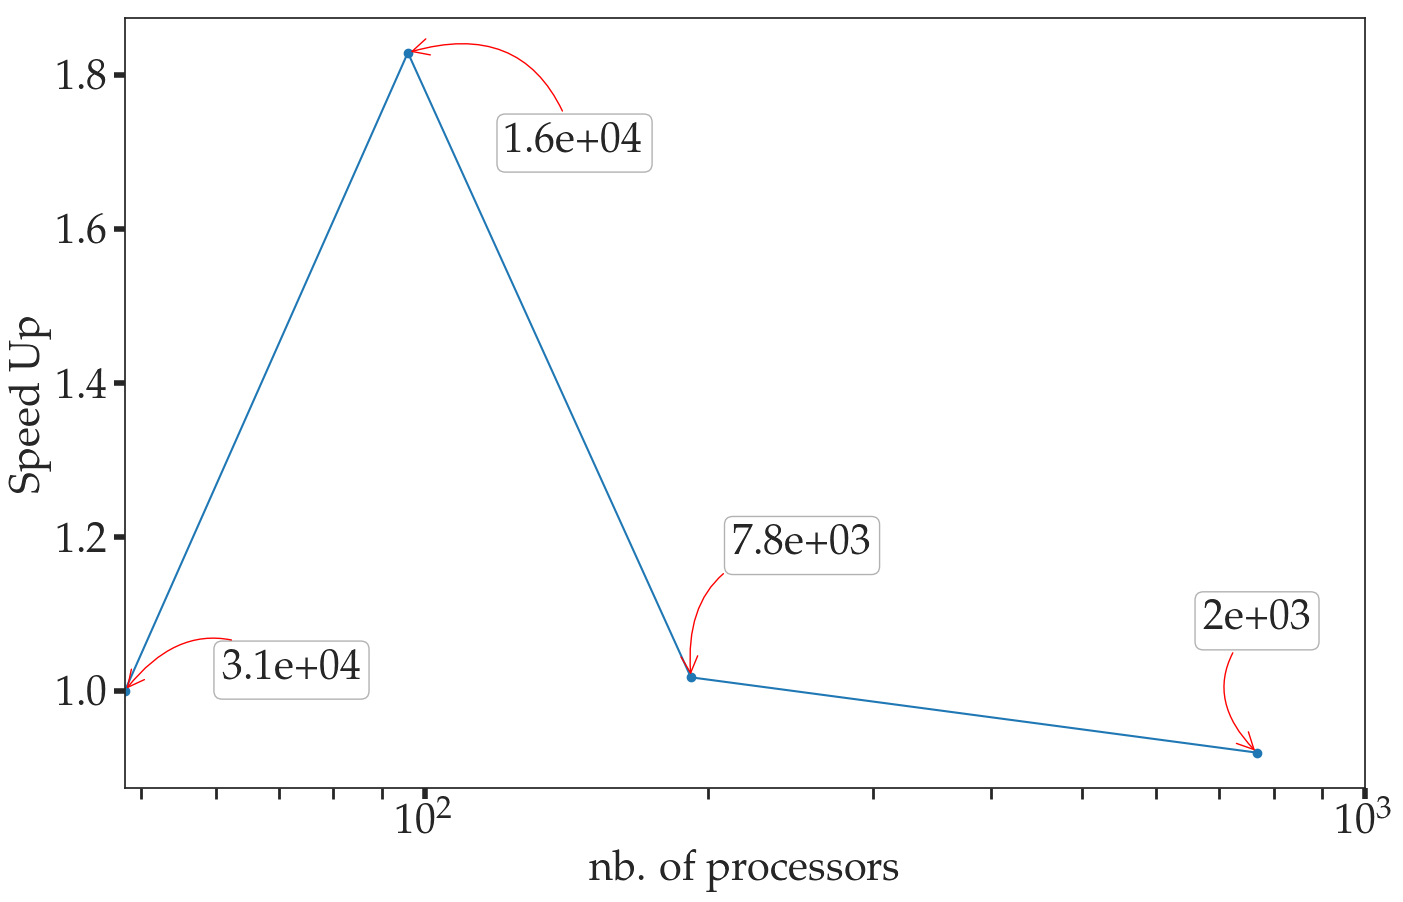
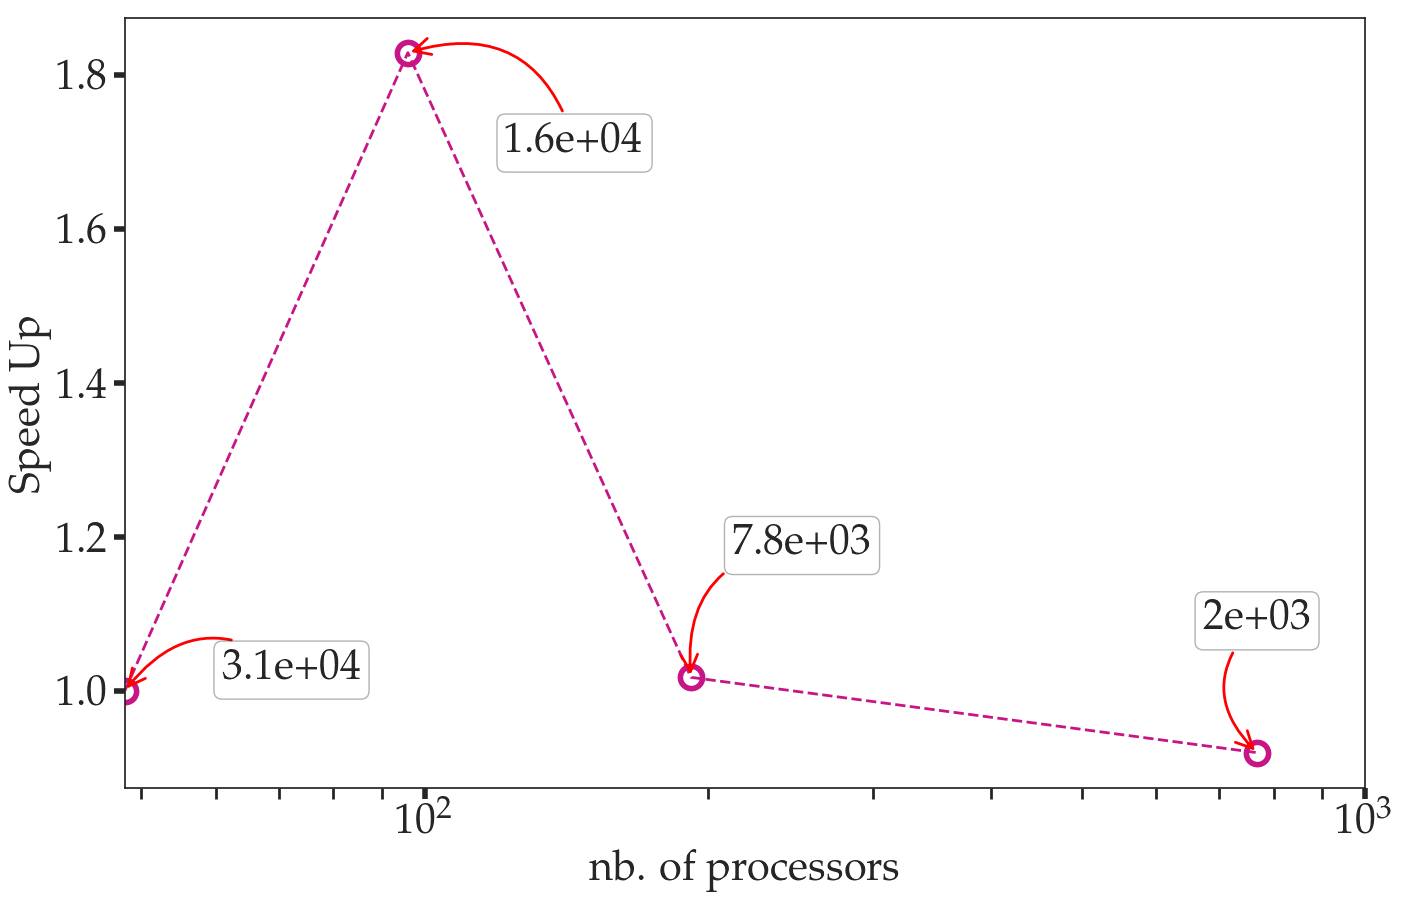
better plot

diff --git a/userScalability/occigen.py b/userScalability/occigen.py
@@ -26,6 +26,13 @@ def read_cases():
     prefix='1b_mirrorMerge_mapped_NearestFace'+'_'
     n_procs=np.array([48, 96, 192, 768])
 
+    markerList=[
+                's',
+                '^',
+                'o',
+                'd'
+    ]
+
     fig0, ax0 = plt.subplots(figsize=(16,10))
     fig1, ax1 = plt.subplots(figsize=(16,10)) 
     fig2, ax2 = plt.subplots(figsize=(16,10))
@@ -35,7 +42,7 @@ def read_cases():
     
     for i in range(len(n_procs)):
         x,y = read_case_after_foamLog(prefix+str(n_procs[i]))
-        ax0.plot(x,y,label='np=%d'%n_procs[i],linewidth=2)
+        ax0.plot((x-7.0)[::100],y[::100],label='np=%d'%n_procs[i],linewidth=2, linestyle='--', markerfacecolor='none', marker=markerList[i], markersize=16, markeredgewidth=4)
         slope, intercept, r_value, p_value, std_err = linregress(x,y)
         print "slope : ", slope
         if i == 0 :
@@ -48,17 +55,17 @@ def read_cases():
 #        ax1.plot(n_procs[i],speed_up,marker='o')
 #        ax2.plot(n_procs[i],eff,marker='o')
     
-    ax1.plot(n_procs,Sp, '-o')
+    ax1.plot(n_procs,Sp, linestyle='--', linewidth=2, markersize=16, marker='o', markerfacecolor='none', color='mediumvioletred', markeredgewidth=4)
     ax1.set_xscale('log')
-    ax2.plot(n_procs,E, '-o')
+    ax2.plot(n_procs,E, linestyle='--', linewidth=2, markersize=16, marker='o', markerfacecolor='none', color='mediumvioletred', markeredgewidth=4)
     ax2.set_xscale('log')
     
     
     ax0.legend(bbox_to_anchor=(0.3, 1.0), ncol=1, fancybox=True, shadow=True)
-    ax0.set_xlabel('physic time')
-    ax0.set_ylabel('cpu time')
-    ax0.set_title('case with 1.5M cellule, saturated at 192 cpu\n\
-                Tested on occigen HSW24')
+    ax0.set_xlabel('Temps physique (s)')
+    ax0.set_ylabel('Temps CPU (s)')
+    #ax0.set_title('case with 1.5M cellule, saturated at 192 cpu\n\
+    #            Tested on occigen HSW24')
                 
     ax1.set_xlabel('nb. of processors')
     ax1.set_ylabel('Speed Up')
@@ -68,7 +75,7 @@ def read_cases():
     ax1.tick_params(axis='x', which='minor', direction='out', length=8, width=2)
 
     ax2.set_xlabel('nb. of processors')
-    ax2.set_ylabel('Parallel Efficiency')
+    ax2.set_ylabel(r'$Parallel Efficiencit\'e$')
     #ax2.set_title('annoatations : average nb of cells per proc')
     ax2.set_ylim(0,1.2)
     ax2.set_xlim(0,1000)
@@ -95,12 +102,12 @@ def read_cases():
         ax1.annotate('%.2g' % nb_cell_per_proc, xy=(n_procs[i], Sp[i]), xytext=offset1[i], 
             textcoords='offset points', ha='center', va='bottom',
             bbox=dict(boxstyle='round,pad=0.2', fc='none', alpha=0.3),
-            arrowprops=dict(arrowstyle='->', connectionstyle='arc3,rad=0.5', 
+            arrowprops=dict(arrowstyle='->', connectionstyle='arc3,rad=0.5', linewidth=2,
                             color='red'))
         ax2.annotate('%.2g' % nb_cell_per_proc, xy=(n_procs[i], E[i]), xytext=offset2[i], 
             textcoords='offset points',
             bbox=dict(boxstyle='round,pad=0.2', fc='none', alpha=0.3),
-            arrowprops=dict(arrowstyle='->', connectionstyle='arc3,rad=0.5', 
+            arrowprops=dict(arrowstyle='->', connectionstyle='arc3,rad=0.5', linewidth=2,
                             color='red'))
 
     fig0.savefig("cpuTime.png", bbox_inches='tight')
